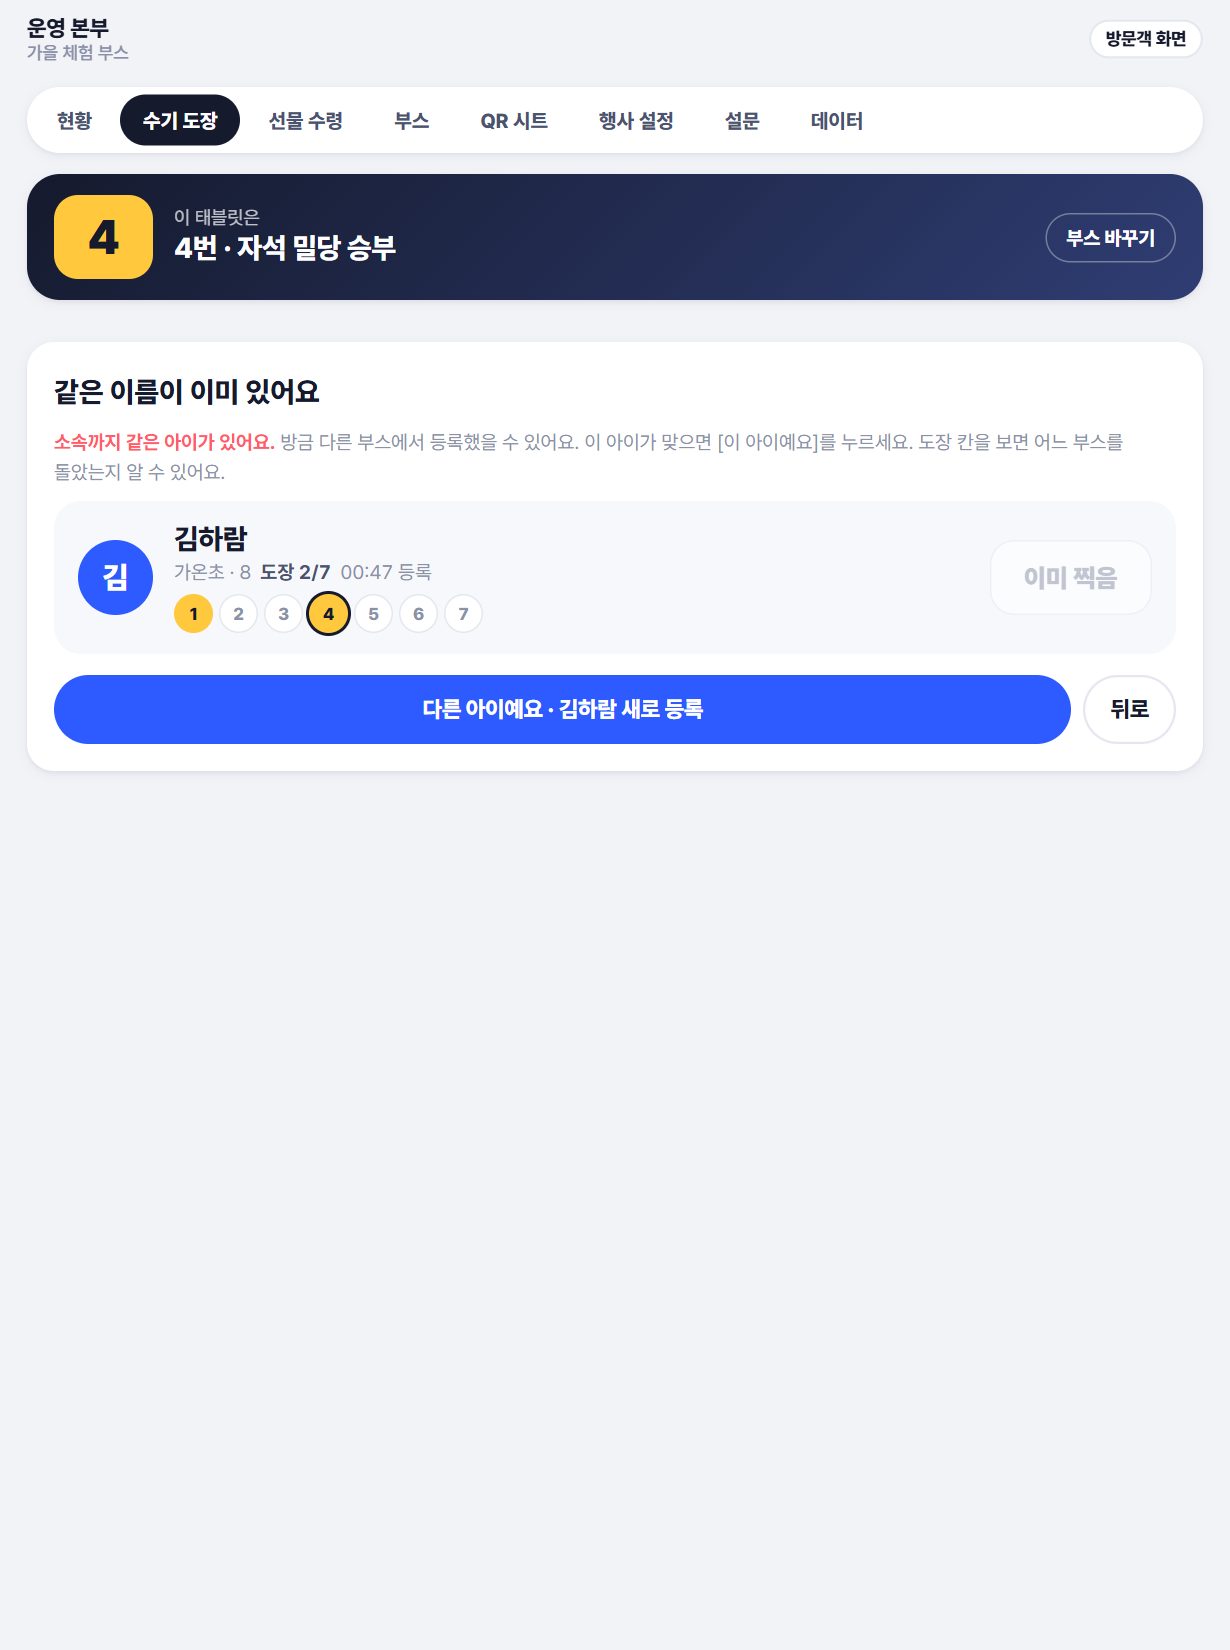
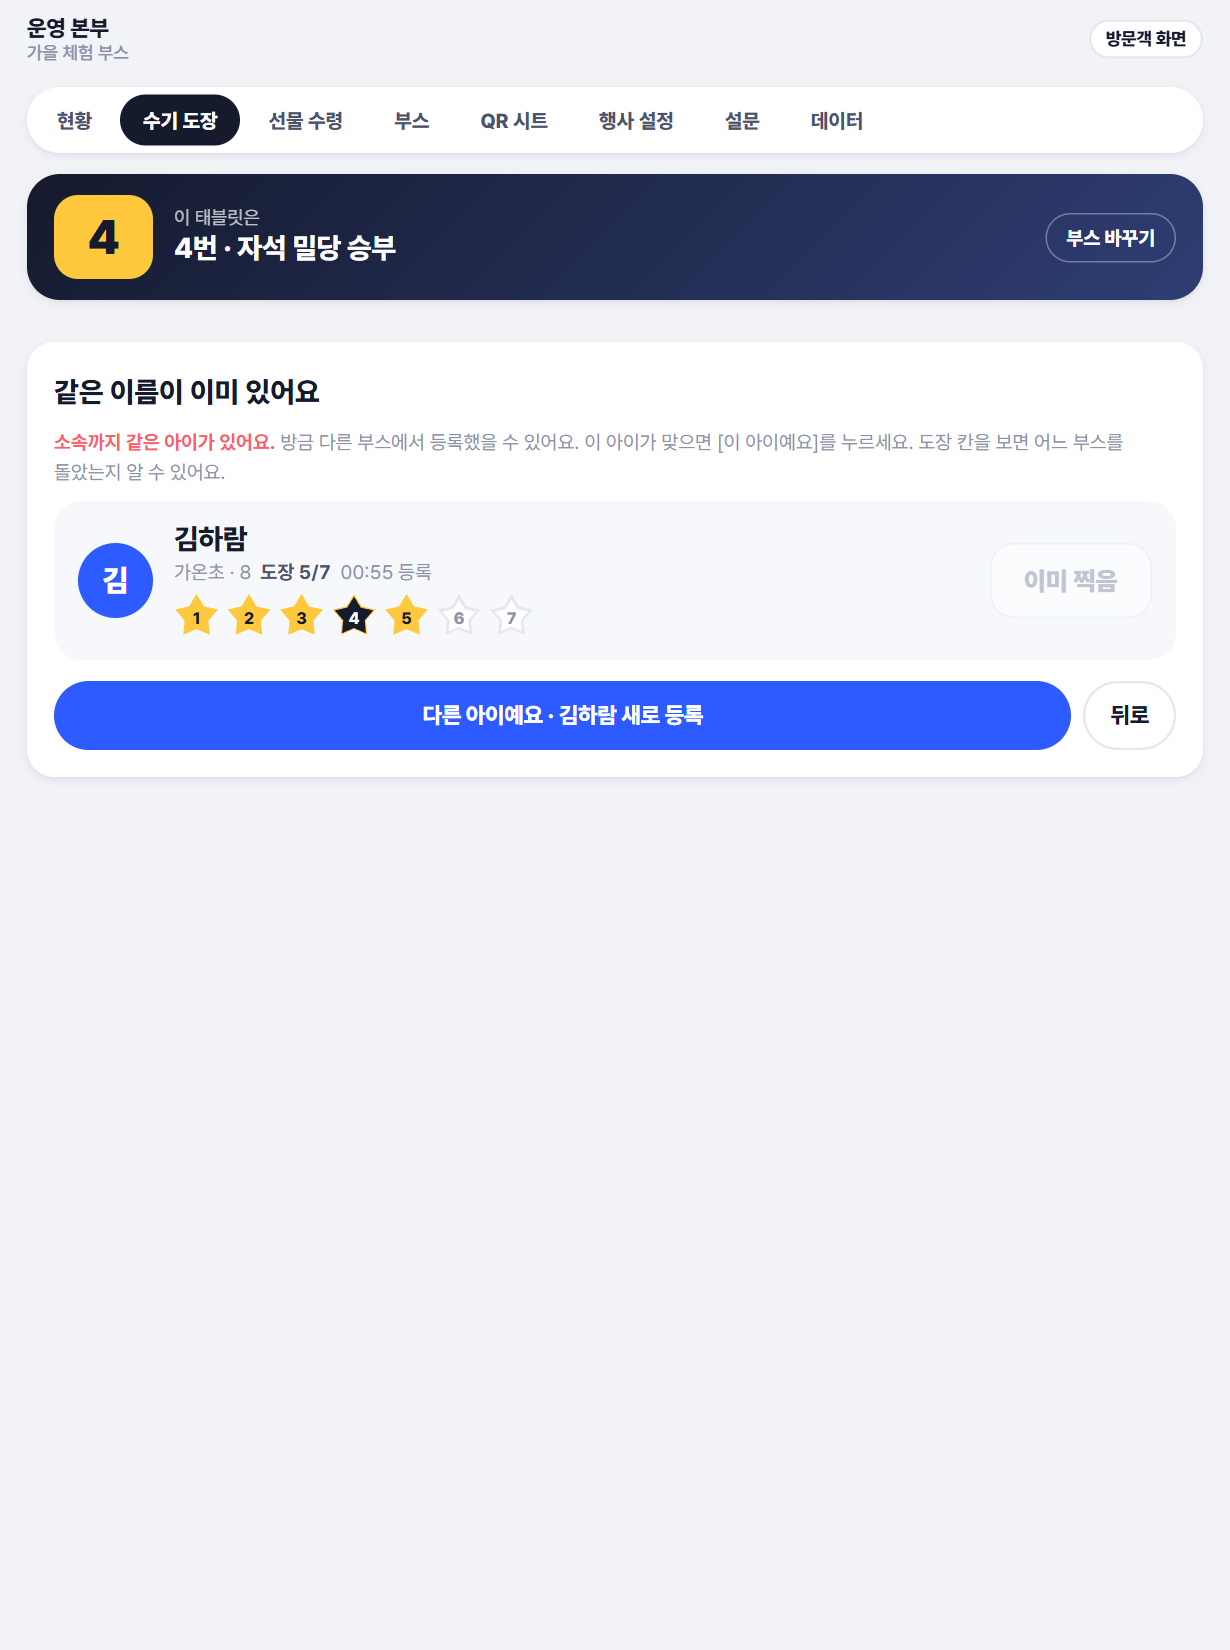
booth-lite: 부스 칸을 도장 칸과 같은 별 모양으로 + 스크린샷 갱신

diff --git a/booth-lite/sync/12_부스칸_별모양.py b/booth-lite/sync/12_부스칸_별모양.py
@@ -1,0 +1,13 @@
+# 12단계: 수기 도장 카드·확인 화면의 1~7 부스 칸을 도장 칸과 같은 별 모양(clip-path --star)으로. 11단계 뒤에 실행
+import io
+p=r'C:\dev\booth-lite\booth-lite_스탬프앱.html'
+s=io.open(p,encoding='utf-8').read()
+old=".bprog{display:flex;gap:4px;margin-top:7px;flex-wrap:wrap}.bprog span{width:26px;height:26px;border-radius:50%;background:var(--card);border:1.5px solid var(--line);display:grid;place-items:center;font-size:11.5px;font-weight:800;color:var(--ink-3)}.bprog span.on{background:var(--sun);border-color:var(--sun);color:var(--ink)}.bprog span.me{box-shadow:0 0 0 2px var(--ink)}"
+assert s.count(old)==1
+new=("/* 부스 칸 = 별(도장 칸과 같은 모양). 빈 칸: 연한 별 테두리(::before 가 안쪽을 카드색으로 덮음) · 받은 부스: 노란 별 · 이 부스: 진한 테두리 */\n"
+     ".bprog{display:flex;gap:5px;margin-top:7px;flex-wrap:wrap}.bprog span{width:30px;height:30px;clip-path:var(--star);background:var(--line);position:relative;isolation:isolate;display:grid;place-items:center;font-size:11px;font-weight:800;color:var(--ink-3);padding-top:3px}"
+     ".bprog span::before{content:\"\";position:absolute;inset:0;background:var(--card);clip-path:var(--star);transform:scale(.78);transform-origin:50% 55%;z-index:-1}"
+     ".bprog span.on{background:var(--sun);color:var(--ink)}.bprog span.on::before{display:none}.bprog span.me{background:var(--ink)}.bprog span.me.on{background:var(--sun)}.bprog span.me.on::before{display:block;background:var(--ink);transform:scale(.9)}.bprog span.me.on{color:#fff}")
+s=s.replace(old,new,1)
+s=s.replace(".bprog.big span{width:34px;height:34px;font-size:13px}",".bprog.big span{width:40px;height:40px;font-size:13px;padding-top:4px}")
+io.open(p,'w',encoding='utf-8',newline='\n').write(s); print('ok')
